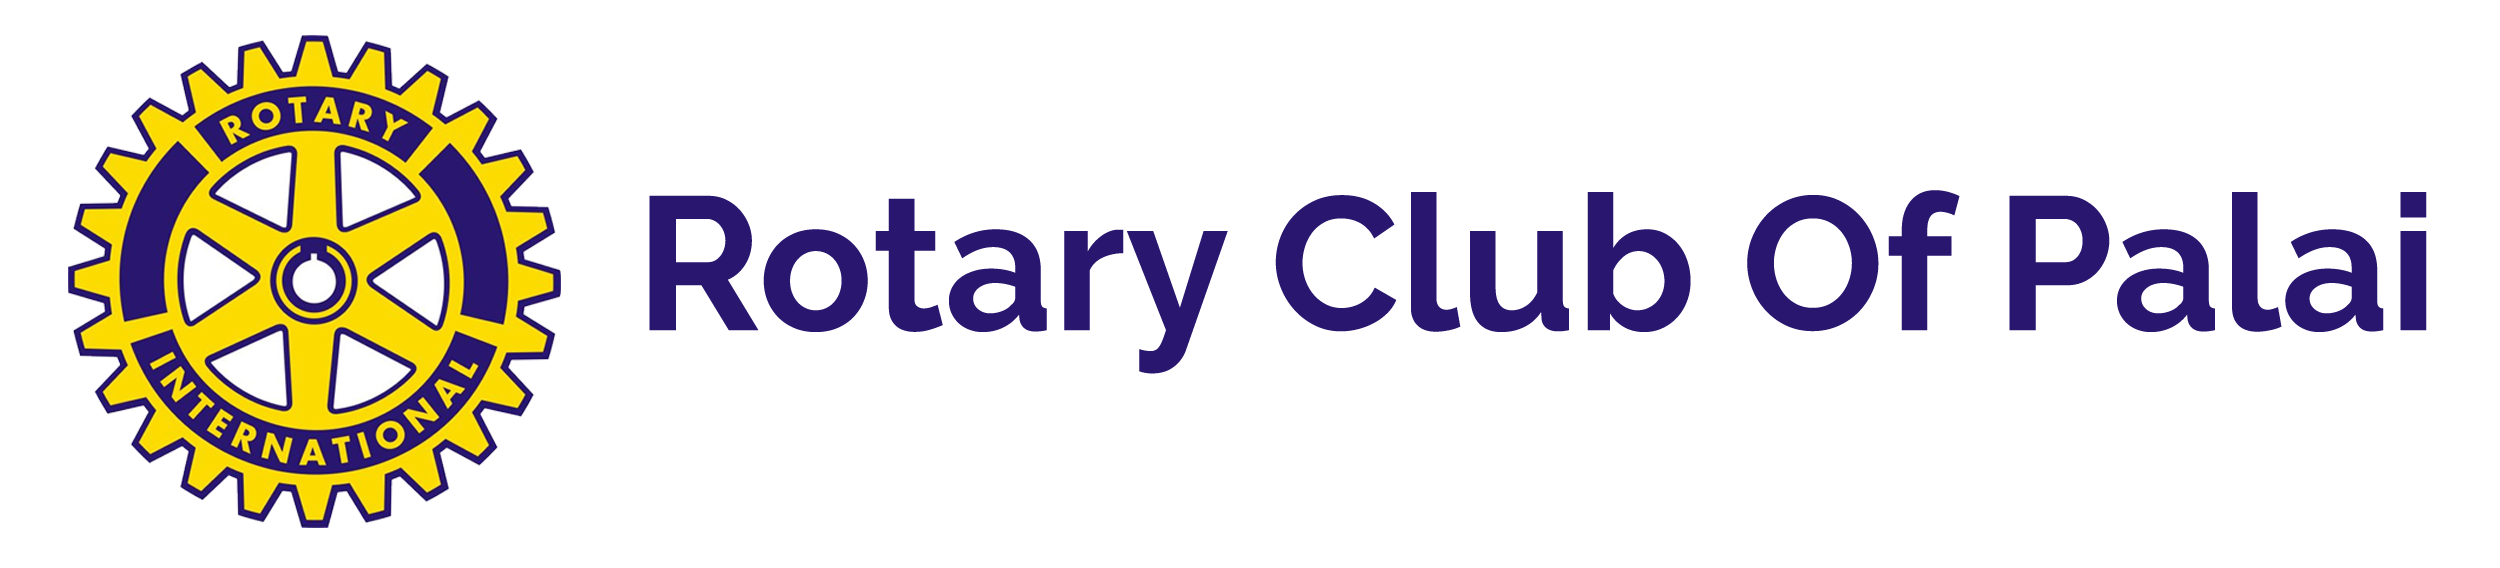
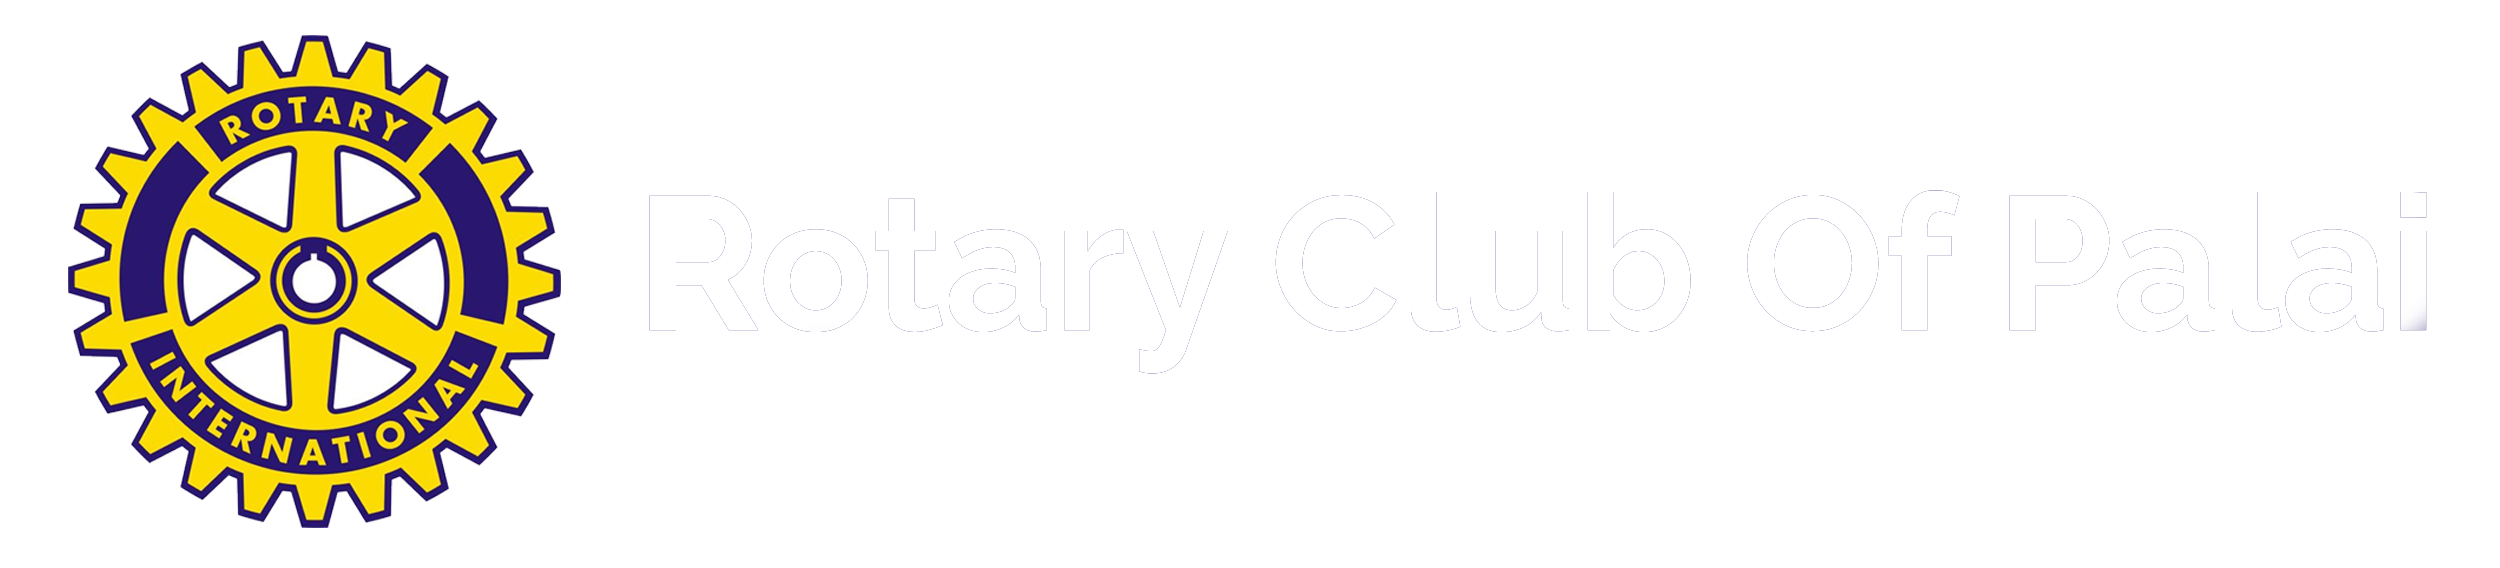
Updated

Changed region(s): [[0.2496, 0.3292, 0.9984, 0.6585]]

diff --git a/Rotary/try.html b/Rotary/try.html
@@ -1,12 +1,25 @@
 <html>
     <head>
-    <body>
-    
-    
-    <center><img src=dif.gif height=100% width=100% >
+    <body >
+    <style>
+        body{
+            background-color: #000;
+        }
+    </style>
+    <br><br>
+    <center>
+            <a href= indextry.html ><img src=r1.png height=200 ></a>
+            <br>
+            <blink></blink><i></i><h2><center><font color=yellow size=5em face=arial style="font-weight: lighter"><b>Happy Diwali</b></center></h2></i></blink>
+                
+            <br>
+            
+            <img src=dif.gif height=50% width=50% ></center>
 
-<img src=r1.png height=200 >
+
 <br>
 <br>
-<br>
+
+<h2><center><font color=#fff size=2em face=arial style="font-weight: lighter">Designed and Developed by <b>Ron George Valiyaveetil</b></center></h2>
+
 </center>

diff --git a/Rotary/indextry.html b/Rotary/indextry.html
@@ -1,11 +1,22 @@
 <html>
 <head>
-<a href= try.html >
-<body background= C2.png>
+
+<body >
+        <style>
+                body{
+                    background-color: #000;
+                }
+            </style>
 <br><br>
 
-<center><img src=r1.png height=200 >
-<br>
-<br>
-<br></a>
+<center><a href= try.html ><img src=r1.png height=200 ></a>
+<br><br><br><br><br><br><br><br><br>
+    <img src=c2.png height=30% width=30% ></center>
 </center>
+
+<br><br>
+<h2><center><font color=#fff size=2em face=arial style="font-weight: lighter">Designed and Developed by <b>Ron George Valiyaveetil</b></center></h2>
+
+<br>
+<br>
+<br>
